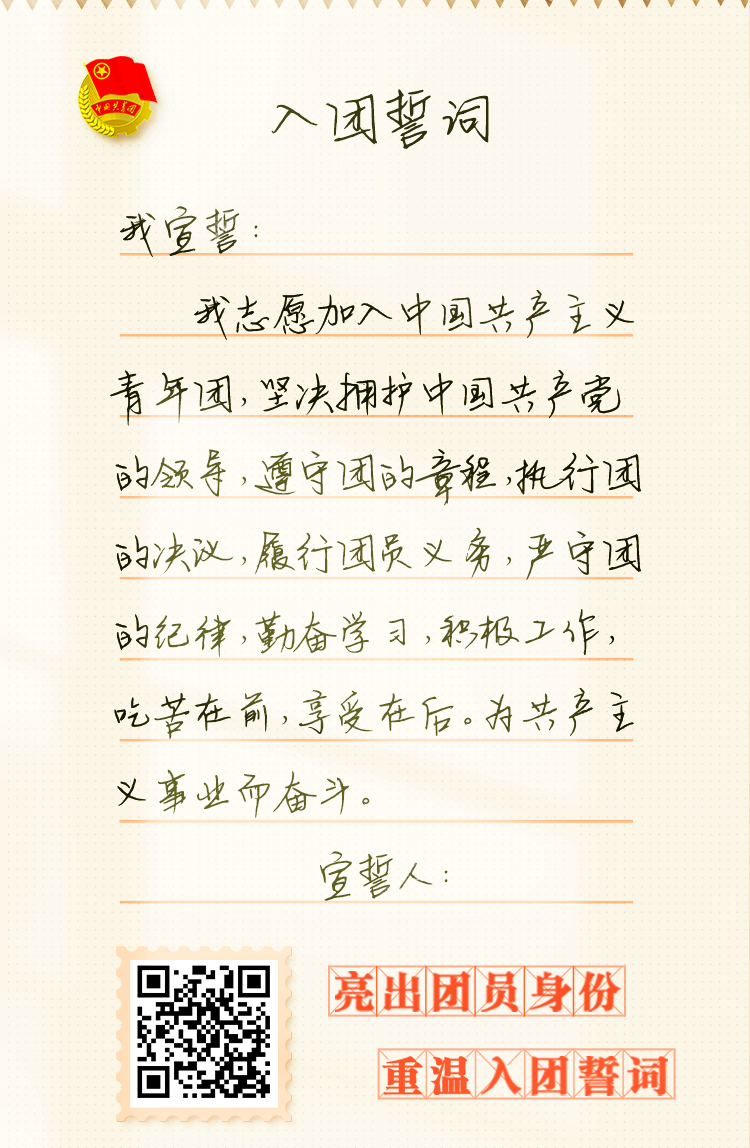
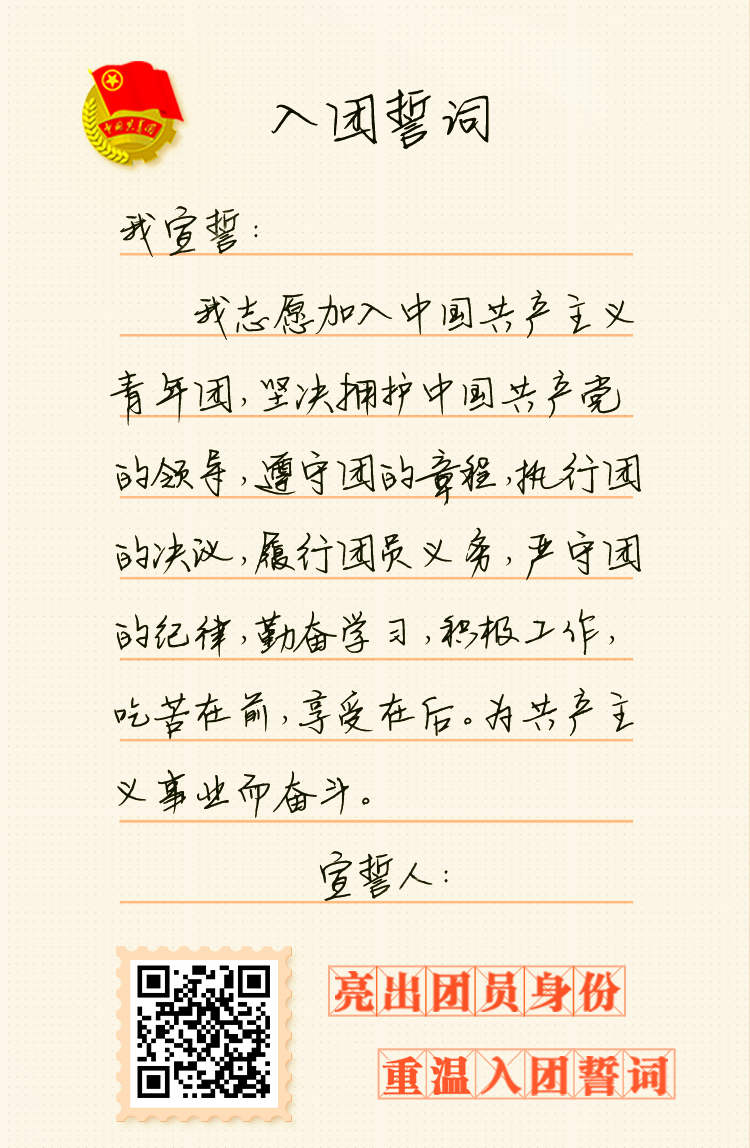
version 1.3.0

diff --git a/Public/css/index.css b/Public/css/index.css
@@ -15,7 +15,6 @@ p {
   background-repeat: no-repeat;
 }
 .header {
-  height: 16.40816327%;
   margin-bottom: 0.38666667rem;
 }
 .header .logo {
@@ -23,9 +22,9 @@ p {
   float: left;
   z-index: 3;
   margin-left: 4.4%;
-  margin-top: 0.53333333rem;
-  height: 76.61691542%;
-  width: 20%;
+  margin-top: 0.49333333rem;
+  height: 2.05333333rem;
+  width: 2rem;
 }
 .header .logo img {
   height: 100%;
@@ -36,10 +35,9 @@ p {
   position: relative;
   z-index: 10;
   height: 1.96rem;
-  height: 73.13432836%;
-  width: 58.26666667%;
+  width: 5.82666667rem;
   margin-right: 16.8%;
-  margin-top: 0.68rem;
+  margin-top: 0.66666667rem;
 }
 .header .title img {
   display: block;
@@ -54,7 +52,7 @@ p {
 }
 .content {
   position: relative;
-  height: 55.77689243%;
+  height: 54.98007968%;
   width: 100%;
   margin-bottom: 0.28rem;
 }
@@ -180,7 +178,7 @@ p {
 }
 .copyright {
   position: absolute;
-  bottom: 0.33333333rem;
+  bottom: 0.65306122%;
   width: 100%;
   color: #644e43;
   text-align: center;
@@ -248,7 +246,7 @@ p {
 }
 .info {
   position: absolute;
-  bottom: 1.01333333rem;
+  bottom: 0.66666667rem;
   right: 2.8%;
   height: 0.70666667rem;
   width: 0.70666667rem;
